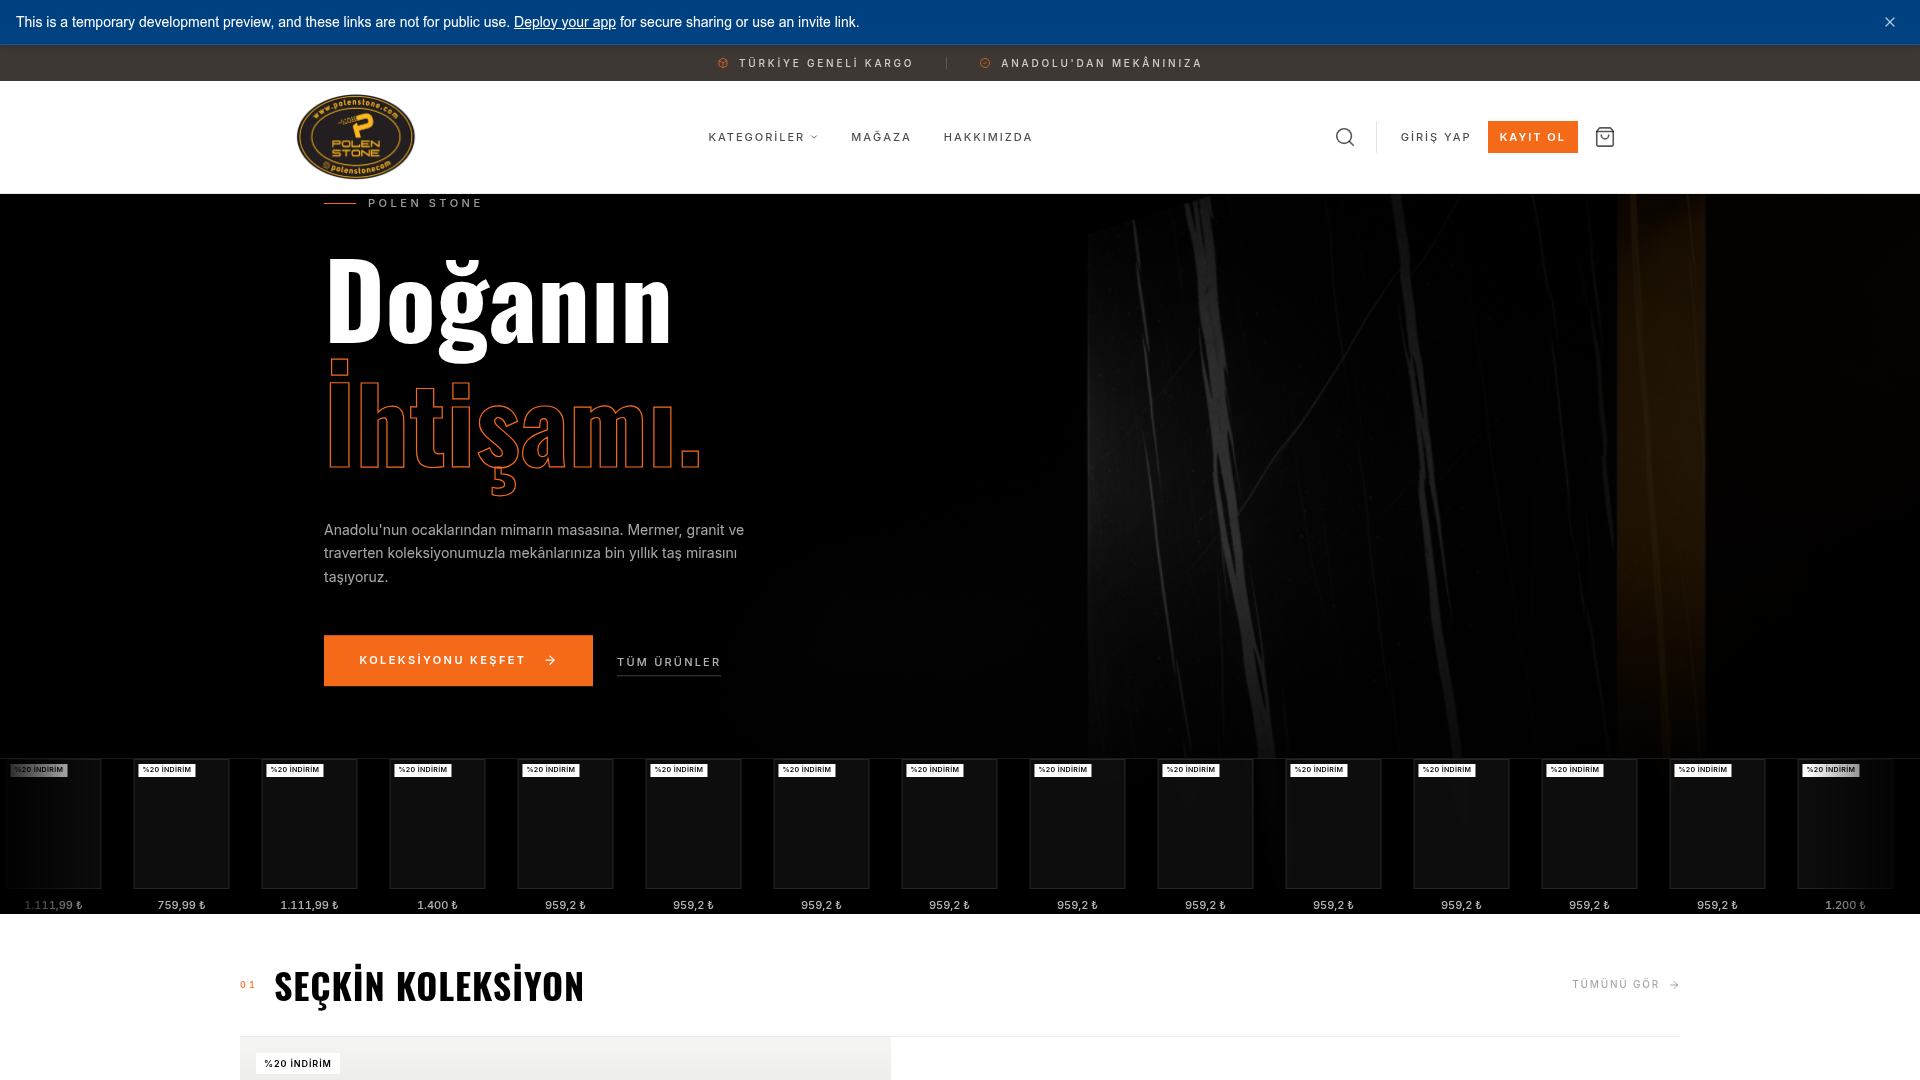
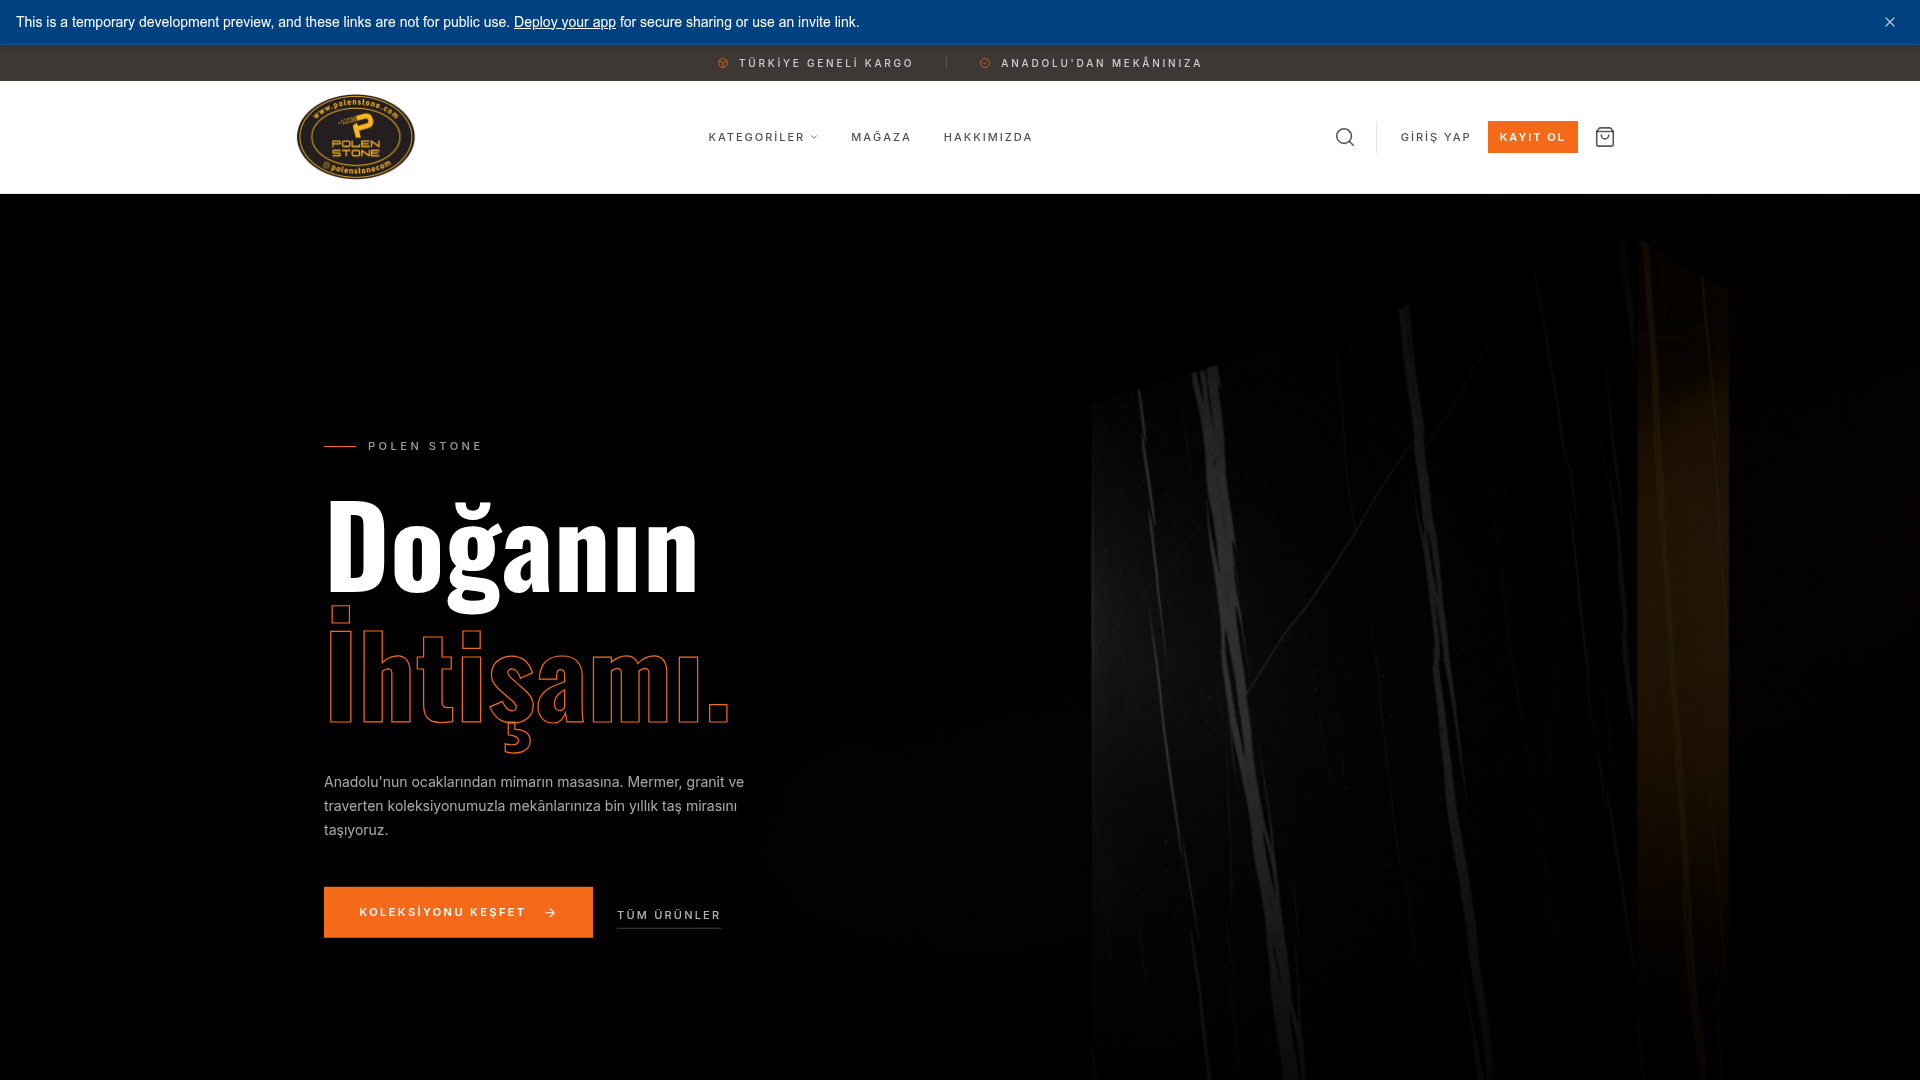
Enhance homepage hero section with a new video and layout adjustments
Update hero section height to fill viewport minus header, adjust content centering, increase mobile title font size, and reposition the product marquee. Replaces existing hero video with a new cinematic version.

Replit-Commit-Author: Agent
Replit-Commit-Session-Id: 9662188d-9011-420a-89e8-3a49ab49b02c
Replit-Commit-Checkpoint-Type: full_checkpoint
Replit-Commit-Event-Id: 28ddbe75-01f5-45a8-9629-1183663db38f
Replit-Commit-Screenshot-Url: https://storage.googleapis.com/screenshot-production-us-central1/4862d24e-301f-4551-9133-c69c1d532c87/9662188d-9011-420a-89e8-3a49ab49b02c/QGyvhZh
Replit-Helium-Checkpoint-Created: true

diff --git a/client/src/pages/Home.tsx b/client/src/pages/Home.tsx
@@ -383,7 +383,7 @@ export default function Home() {
       <section
         ref={heroRef}
         className="relative overflow-hidden bg-black text-white"
-        style={{ height: 'clamp(580px, 100svh, 720px)' }}
+        style={{ height: 'calc(100svh - 112px)', minHeight: '600px', maxHeight: '1000px' }}
         data-testid="section-hero"
       >
         {/* ── Cinematic background video (with poster fallback) ── */}
@@ -424,10 +424,10 @@ export default function Home() {
           }}
         />
 
-        {/* ── Main content: vertically centered, generous breathing room ── */}
+        {/* ── Main content: more centered vertically over the video ── */}
         <div
           className="absolute inset-0 z-10 flex items-center"
-          style={{ paddingBottom: 'clamp(180px, 24vh, 230px)' }}
+          style={{ paddingTop: 'clamp(40px, 8vh, 90px)', paddingBottom: 'clamp(120px, 18vh, 180px)' }}
         >
           <div className="w-full max-w-[1400px] mx-auto px-6 sm:px-10 lg:px-16">
             <div className="max-w-[680px]">
@@ -448,8 +448,8 @@ export default function Home() {
               <h1
                 className="font-display tracking-[0.005em] text-white"
                 style={{
-                  fontSize: 'clamp(2.1rem, 7vw, 6.5rem)',
-                  lineHeight: 1.08,
+                  fontSize: 'clamp(3.2rem, 9vw, 7rem)',
+                  lineHeight: 1.05,
                 }}
                 aria-label="Doğanın İhtişamı"
               >
@@ -517,7 +517,7 @@ export default function Home() {
         {/* ── Bottom: integrated product marquee inside hero ── */}
         {allProducts.length > 0 && (
           <div
-            className="absolute bottom-0 left-0 right-0 z-20 bg-black/55 backdrop-blur-sm border-t border-white/10"
+            className="absolute bottom-4 sm:bottom-6 lg:bottom-8 left-0 right-0 z-20 bg-black/60 backdrop-blur-md border-y border-white/10"
             data-testid="section-hero-marquee"
           >
             <div className="relative h-[140px] sm:h-[155px] overflow-hidden">